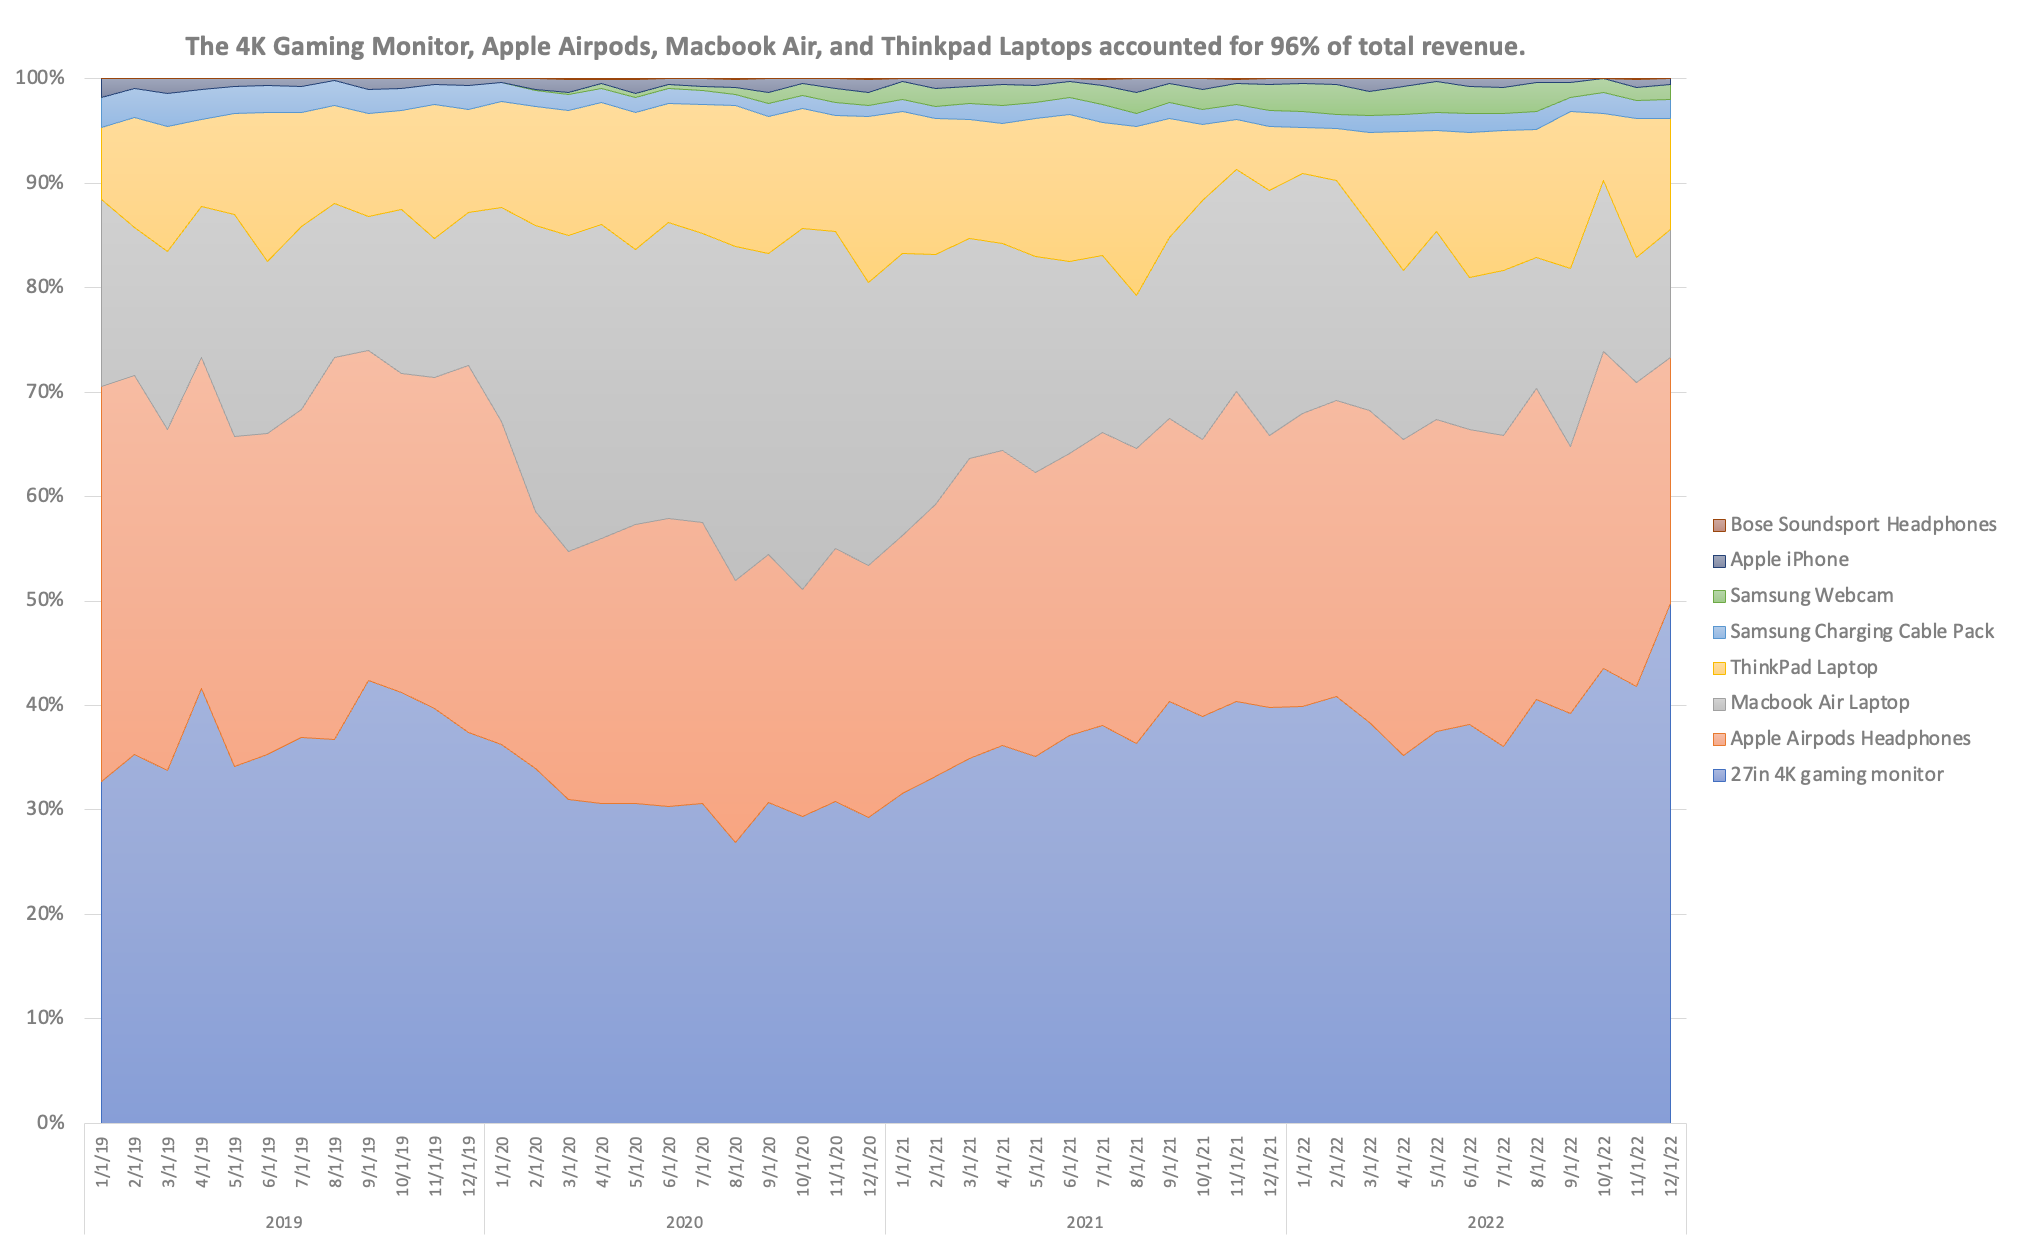
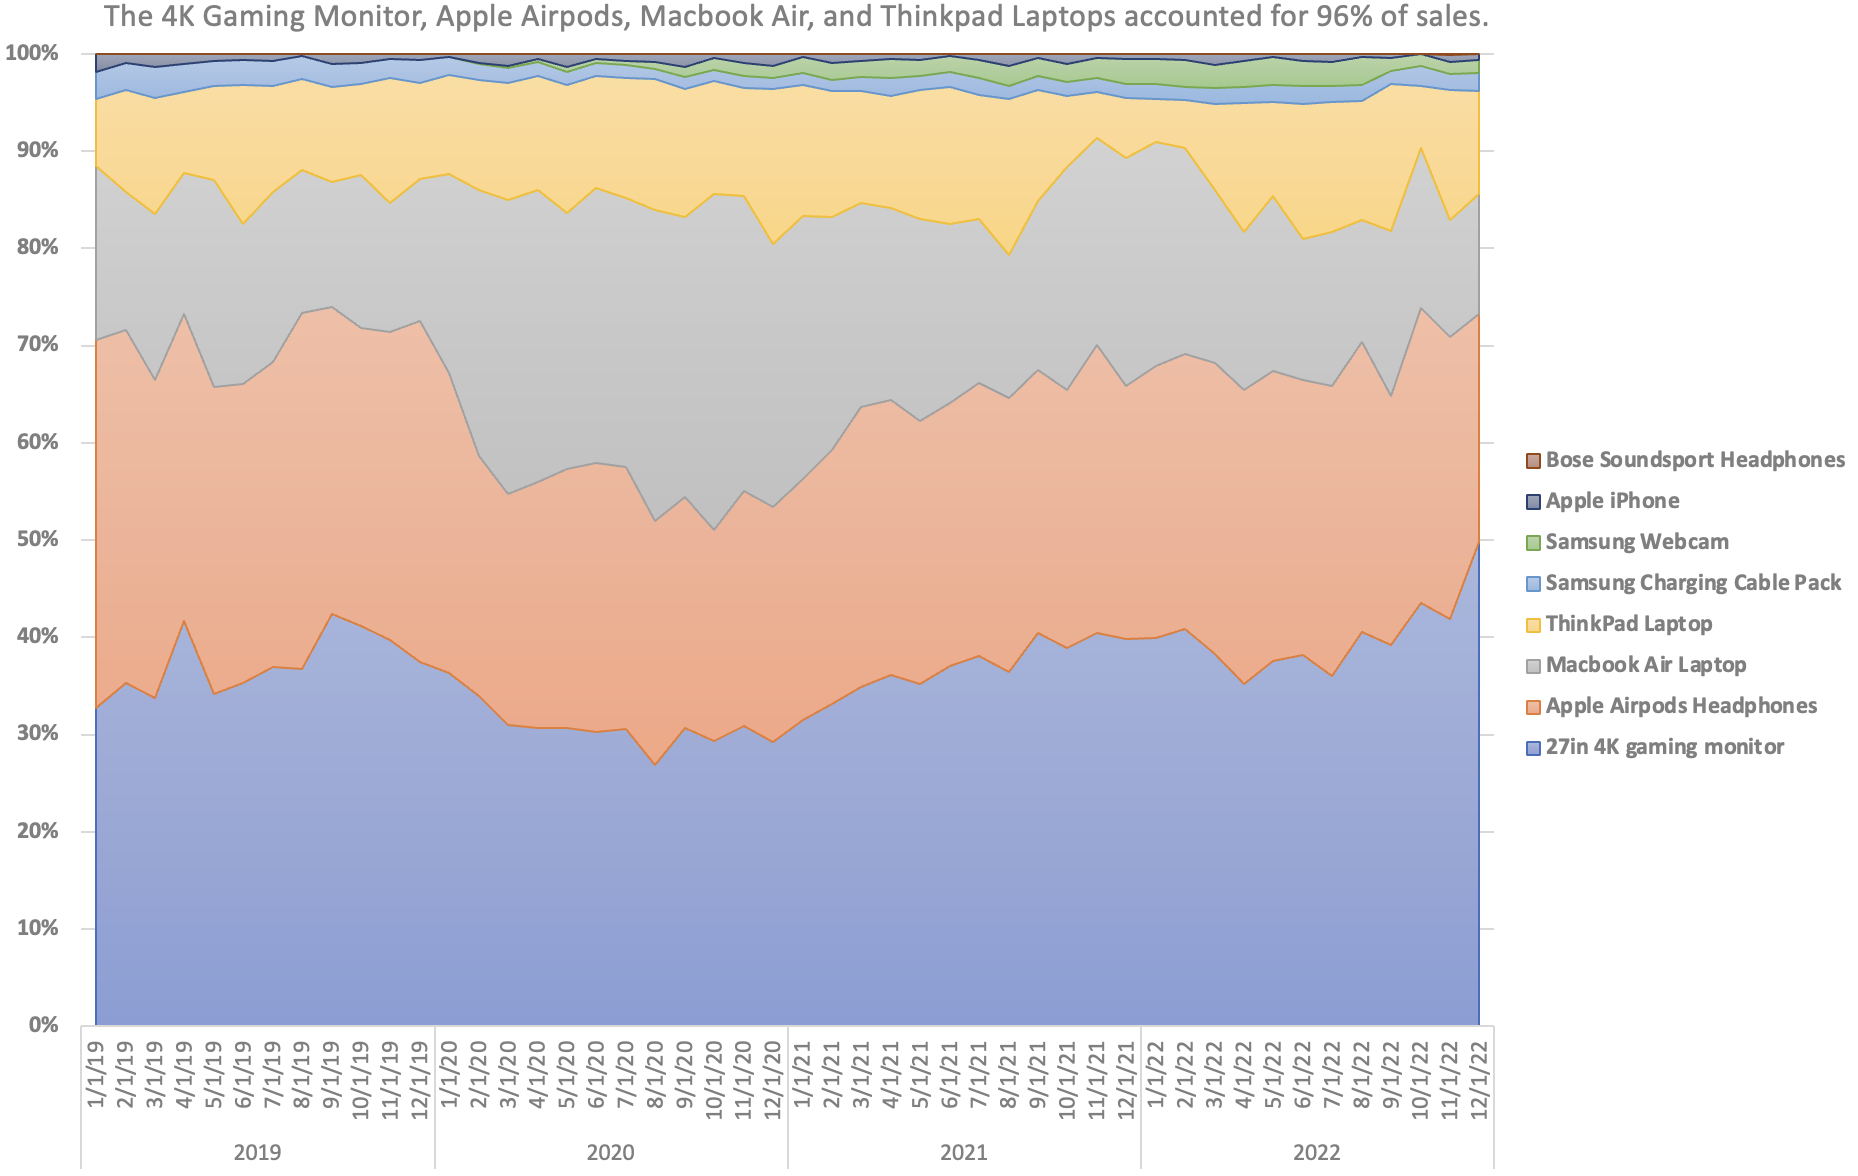
updated visualizations

diff --git a/README.md b/README.md
@@ -65,14 +65,7 @@ A deep dive into trends and insights, including a breakdown of sales trends by y
 
 ### Overall Sales Trends 
 
-![](Images/overall%20sales.png)
-
 Between 2019 and 2022, TechHub’s sales performance reflected the volatility of a rapidly shifting market. Over four years, the company brought in $28.1M in revenue from 108K total orders, averaging about $7M and 27K orders per year. However, this average masks an important trend: nearly 70% of total revenue was concentrated in 2020 and 2021, when both order volume and average order value (AOV) surged during the pandemic.
-
-**Order volume was the clearest driver of growth.** It more than doubled at the height of the pandemic, reaching an all-time high in 2021. Even after a steep decline in 2022 as the market began to normalize, order volume remained 28% higher than pre-pandemic levels. This sustained lift in customer activity played a critical role in maintaining revenue post-pandemic and may signal a lasting shift in consumer behavior around online tech purchases.
-
-While AOV initially spiked in 2020, it steadily declined over the next two years and returned to 2019 levels by 2022. Still, the elevated order volume—despite the drop in AOV—suggests that TechHub may have an opportunity to build on a larger, more engaged customer base in the years ahead.
-
 
 - **2019: Pre-Pandemic Baseline** - TechHub recorded its lowest revenue and order volume across the time period in 2019, generating $3.8M in total sales from 16.8K orders. The average order value (AOV) was $230, a figure later matched in 2022 during the post-pandemic market correction.
 
@@ -80,7 +73,11 @@ While AOV initially spiked in 2020, it steadily declined over the next two years
 
 - **2021: Customer Adjustment** - In 2021, AOV fell -15% to $255, as consumers became more budget-conscious. Despite this, total sales still remained strong at $9.1M. This was driven by record-high order volume, which climbed another 6% in YoY growth to an all time high of 35.8K orders, highlighting sustained demand for online tech products during the pandemic despite decreases in AOV.
 
-- **2022: Market Normalization** - Revenue dropped significantly in 2022 as the market began normalizing upon the return of in-store spending options. AOV continued to drop, returning back to it's pre-pandemic level of $230. Order volume also declined significantly by -40%. However, order count remained 28% above pre-pandemic levels, contributing directly to post-pandemic revenue retention and signaling a potentially lasting shift in consumer behavior moving forward. to $4.9M as ,
+- **2022: Market Normalization** - Revenue dropped significantly in 2022 as the market began normalizing upon the return of in-store spending options. AOV continued to drop, returning back to it's pre-pandemic level of $230. Order volume also declined significantly by -40%. However, order count remained 28% above pre-pandemic levels, contributing directly to post-pandemic revenue retention and signaling a potentially lasting shift in consumer behavior moving forward. 
+
+![](Images/overall%20sales.png)
+
+**Order volume was the clearest driver of growth.** It more than doubled at the height of the pandemic, reaching an all-time high in 2021. Even after a steep decline in 2022 as the market began to normalize, order volume remained 28% higher than pre-pandemic levels. This sustained lift in customer activity played a critical role in maintaining revenue post-pandemic and may signal a lasting shift in consumer behavior around online tech purchases. While AOV initially spiked in 2020, it steadily declined over the next two years and returned to 2019 levels by 2022. Still, the elevated order volume—despite the drop in AOV—suggests that TechHub may have an opportunity to build on a larger, more engaged customer base in the years ahead.
 
 ### Seasonality
 <!--
@@ -89,9 +86,11 @@ While AOV initially spiked in 2020, it steadily declined over the next two years
   style="margin-right:2%">
   <img src="Images/seasonality of average year.png" width="45%" >
 </div> -->
-![ ](Images/Seasonality%20-%20across%20all%204%20years.png)
 
-**TechHub’s sales performance from October through March followed a consistent annual cycle** marked by a pre-holiday pullback, peak-season surge, and post-holiday slowdown, with March often signaling the start of recovery. This 6-month arc repeated across 2019–2022, with a few notable exceptions that reflect broader market disruptions.
+
+TechHub’s sales performance from October through March followed a consistent annual cycle marked by a pre-holiday pullback, peak-season surge, and post-holiday slowdown, with March often signaling the start of recovery. This 6-month arc repeated across 2019–2022, with a few notable exceptions that reflect broader market disruptions.
+
+![ ](Images/Seasonality%20-%20across%20all%204%20years.png)
 
 - **October** - The cycle typically began with a sharp decline in October— averaging a -28% decrease in sales growth and -29% decrease in order growth, the lowest average sales of any month — suggesting that consumers tend to deliberately hold back spending ahead the holiday season.
 
@@ -114,7 +113,7 @@ While AOV initially spiked in 2020, it steadily declined over the next two years
 ![](Images/product%20distribution.png)
 
 
-**Between 2019 and 2022, just 4 products generated the vast majority — 96% — of total revenue, highlighting a highly concentrated revenue stream.** In contrast, the remaining four products combined contributed just 4% of revenue, though they revealed interesting dynamics worth further consideration.
+Between 2019 and 2022, just 4 products generated the vast majority — 96% — of total revenue, highlighting a highly concentrated revenue stream. In contrast, the remaining four products combined contributed just 4% of revenue, though they revealed interesting dynamics worth further consideration.
 
 #### 4 Top Performers | $27.1M 
 
@@ -131,7 +130,7 @@ Though the MacBook Air Laptop represented only 4% of total orders, its premium p
 Similarly, the ThinkPad Laptop, with an AOV of $1,100, contributed $3.2 million (11% of total revenue) from a small base of just under 3,000 orders. Its sales trajectory mirrored that of the MacBook, with a sharp spike in 2020 and a standout 92% growth in December 2020. ThinkPad sales a;also showed a clear pattern of year-end peaks, suggesting strong seasonal appeal — potentially linked to holiday gift-giving or end-of-year corporate purchases.
 
 
-#### Less Impactful Products | $1M
+#### Less Impactful | $1M
 
 5. **Samsung Charging Cable Pack | $442K**   
 The Samsung Charging Cable Pack proved surprisingly popular, making up 20% of all orders - although with a low price tag ($20 AOV). While it generated just 2% of total revenue, its high volume suggests it might have some strategic potential. For example, bundling it with other items could be an effective strategy to increase cart size and elevate overall revenue contribution.
@@ -156,13 +155,13 @@ Lastly, the Bose Soundsport Headphones underperformed significantly, generating 
 
 TechHub’s global sales were heavily concentrated in NA and EMEA regions, which together generated 81% of total revenue ($22.8M combined) across 87.6K orders. Both regions posted AOVs around $260. APAC merged as a promising growth market with the highest regional AOV and early traction in a key country, while LATAM lagged behind due to sustained AOV declines and lower order volume. 
 
-**NA | $14.6M (52% of revenue)**  
+**NA | $14.6M (52% of global revenue)**  
 North America led global performance with $14.6M in revenue and 52% of global orders (55.8K). Almost all regional revenue came from just two countries:
   - **United States:** The largest revenue generator across all countries, contributing 47% of total global revenue at $13.2M (91% of regional sales), with an AOV of $262 and strong order volume of 50.6K. 
   - **Canada:** Brought in 8% of total regional sales at $1.1M (4% of global revenue).  Despite having a lower than average AOV at $247, it still managed to perform well, bringing in 4% of total regional orders (4.8K).    
 
 
-**EMEA | $8.2M (29% of revenue)**  
+**EMEA | $8.2M (29% of global revenue)**  
 Europe, Middle East, and Africa contributed 29% of global revenue at $8.2M, making it the second-highest performing region. It  brought in 31.8K orders at an AOV of $259. Unlike NA, total sales for EMEA were widely distributed across 15+ countries. Leading countries included: 
   - **Great Britain:** Great Britain led regional sales at 
 $2.09M or 25% of EMEA sales. It also was was the second-highest performing country globally, contributing 8% of global revenue. Britain offered scale in order volume (8.3K) despite slightly weaker AOV ($251).
@@ -171,12 +170,12 @@ $2.09M or 25% of EMEA sales. It also was was the second-highest performing count
   - **Spain**:
   - **Netherlands:** The Netherlands delivered an even stronger $289 AOV on more modest order volume of 1.6K orders. It brought in 2% of global sales and 6% of regional sales at $458K. 
 
-**APAC | $3.6M (13% of revenue)**    
+**APAC | $3.6M (13% of global revenue)**    
 Asia and Pacific accounted for $3.6M in revenue (13%), but posted the highest regional AOV at $279—7% above the global average. Though order volume was lower overall (13.1K), several countries showed high revenue potential if scaled. A few countries of interest in APAC were:
   - **Japan**: Japan generated $1M in revenue with a standout AOV of $393 — 51% above the global average — despite contributing only 2.6K orders. It brought in 20% of regional order volume was the fourth highest earning country at 4% of global sales.
   - **Australia:** Australia contributed a similar percentage of regional sales as Japan at 27%, delivering $975K in total revenue. Australia had significantly lower AOV ($204) but with almost double the order volume (4.8K). This combination allowed it to also make a substantial contribution to total regional sales. Globally, it was the 6th highest earning country at 3% of global sales.
 
-**LATAM | $1.6M (6% of revenue)**  
+**LATAM | $1.6M (6% of global revenue)**  
  Latin America was the lowest performing region at $1.67M in revenue or 6% of global sales. This was largely due to it having the lowest AOV across all regions at $231 (11% below global avg), due to a declining trend in AOV post-2020, with greater than 20% year-over-year AOV drops for 2021 and 2022. Without a clear path to reverse AOV erosion, LATAM currently offers limited return on investment, however a few countries of note include:
   - **Brazil** - The LATAM country Brazil actually ranked 7th globally at 3% in total sales ($730K) despite it's slightly lower slightly higher AOV ($251). It contributed 40% of total LATAM order volume at 2.9K orders. This country may still offer some return on investment
   - **Mexico** - Mexico, in contrast, posted extremely low AOV ($168) and brought in about half the orders of Brazil at 23% of total regional orders or 1.6K. Nonethetheless it still represented 16% of LATAM revenue. It showed a much lower indicating a poor return on existing order volume.  
